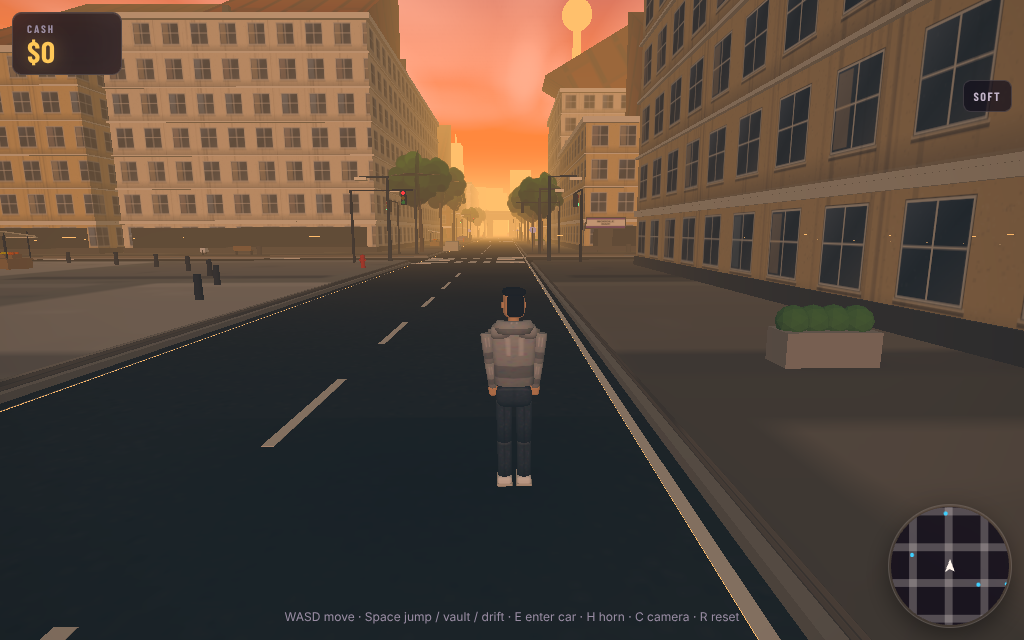
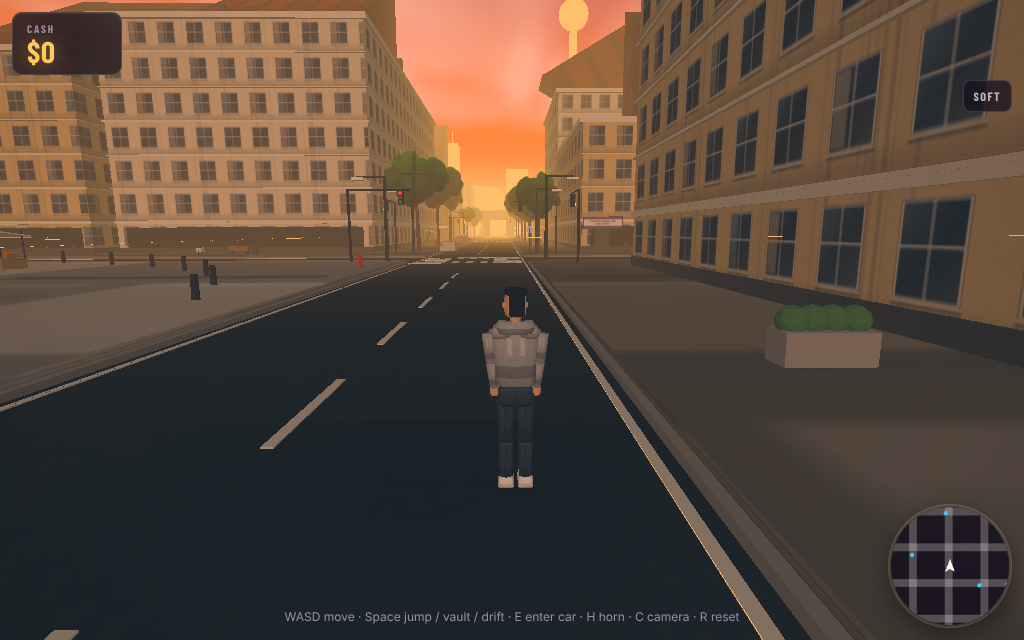
City: filter button follows the URL mode; 256 px facade atlases
Claude-Session: https://claude.ai/code/session_018KZLyQB5QBTByuUpC7x4xA

diff --git a/src/city/hud.ts b/src/city/hud.ts
@@ -50,7 +50,7 @@ export function mountHud(root: HTMLElement, input: Input): HudRefs {
   const flash = $('.c-flash');
   const wanted = $('.c-wanted');
   const filterBtn = $('.c-filter');
-  const crispNow = localStorage.getItem('neoncity.filter') === 'crisp';
+  const crispNow = new URLSearchParams(location.search).get('filter') === 'crisp' || localStorage.getItem('neoncity.filter') === 'crisp';
   filterBtn.textContent = crispNow ? 'CRISP' : 'SOFT';
   filterBtn.addEventListener('click', () => {
     const next = filterBtn.textContent === 'SOFT' ? 'crisp' : 'soft';

diff --git a/src/city/textures.ts b/src/city/textures.ts
@@ -42,8 +42,10 @@ const CONCRETE = ['#9a9590', '#8b8782', '#a5a09a', '#7f7b78'];
 /** A facade atlas: 4 columns × 4 floors of windows with frames, sills and a few lit interiors. */
 export function facadeTexture(style: FacadeStyle, seed: number): Facade {
   const rng = new Rng(seed);
-  const [c, g] = canvas(512, 512);
-  const [e, eg] = canvas(512, 512);
+  const [c, g] = canvas(256, 256);
+  const [e, eg] = canvas(256, 256);
+  g.scale(0.5, 0.5);
+  eg.scale(0.5, 0.5);
   eg.fillStyle = '#000';
   eg.fillRect(0, 0, 512, 512);
   let base = '#c9a27a';
